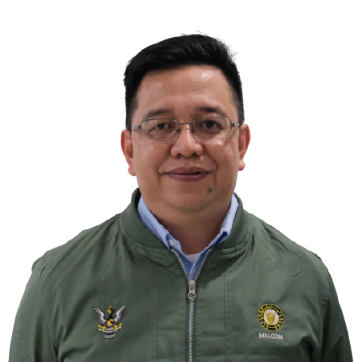
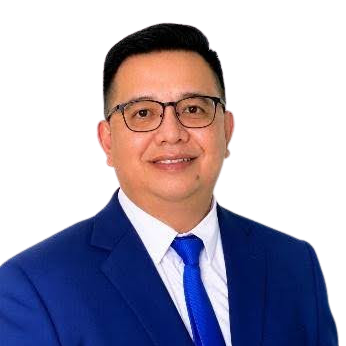
updated

diff --git a/resources/views/index.blade.php b/resources/views/index.blade.php
@@ -183,14 +183,14 @@
         <tr><td>8:40 AM – 9:00 AM</td><td><strong>Paper 1:</strong> Pengalaman dan Cabaran Pengurusan Kebakaran Hutan Paya Gambut di Selangor<ul><li>Azhar Ahmad et al., Jabatan Perhutanan Semenanjung Malaysia</li></ul></td></tr>
         <tr><td>9:00 AM – 9:20 AM</td><td><strong>Paper 2:</strong> Estimating Aboveground Forest Carbon Density through LiDAR and Geospatial Remote Sensing in Sarawak<ul><li>Dr Malcom anak Demies, Forest Department Sarawak</li></ul></td></tr>
         <tr><td>9:20 AM – 9:40 AM</td><td><strong>Paper 3:</strong> Ecological Dynamics of Tropical Highland Peat Ecosystems<ul><li>Zainuddin Jamaluddin et al., Jabatan Perhutanan Semenanjung Malaysia</li></ul></td></tr>
-        <tr><td>9:40 AM – 10:00 AM</td><td><strong>Paper 4:</strong> Nature, Climate, and Economy: Sabah's Pathway Through Nature-Based Solutions<ul><li>Rosilia Anthony et al., Sabah Forestry Department</li></ul></td></tr>
+        <tr><td>9:40 AM – 10:00 AM</td><td><strong>Paper 4:</strong> Nature, Climate, and Economy: Sabah's Pathway Through Nature-Based Solutions<ul><li>Rosila Anthony et al., Sabah Forestry Department</li></ul></td></tr>
         <tr><td>10:00 AM – 10:10 AM</td><td>Question and Answer Session</td></tr>
         <tr><td>10:10 AM – 10:30 AM</td><td>Refreshments</td></tr>
         <tr><td colspan="2"><strong>Subtheme 3: Partnership and Collaboration</strong></td></tr>
         <tr><td>10:30 AM – 10:40 AM</td><td>Session Commencement</td></tr>
         <tr><td>10:40 AM – 11:00 AM</td><td><strong>Paper 1:</strong> Sabah Timber Legality Assurance System Plus (TLAS+)<ul><li>Mijol R. M. et al., Sabah Forestry Department</li></ul></td></tr>
         <tr><td>11:00 AM – 11:20 AM</td><td><strong>Paper 2:</strong> Operasi Penguatkuasaan Bersepadu Jabatan Perhutanan Semenanjung Malaysia<ul><li>Gana R. K. et al., Jabatan Perhutanan Semenanjung Malaysia</li></ul></td></tr>
-        <tr><td>11:20 AM – 11:40 AM</td><td><strong>Paper 3:</strong> Digitalizing Conservation Governance: HOBS Cross-Agency Project Management System<ul><li>Habibah binti Salleh, Forest Department Sarawak</li></ul></td></tr>
+        <tr><td>11:20 AM – 11:40 AM</td><td><strong>Paper 3:</strong> Digitalizing Conservation Governance: HOBS Cross-Agency Project Management System<ul><li>Meliza Binti Mohd Rizan, Forest Department Sarawak</li></ul></td></tr>
         <tr><td>11:40 AM – 12:00 PM</td><td><strong>Paper 4</strong><ul><li>Professor Ts. Dr. Faisal Ali bin Anwarali Khan, Unimas</li></ul></td></tr>
         <tr><td>12:00 PM – 12:10 PM</td><td>Question and Answer Session</td></tr>
         <tr><td>12:10 PM – 1:30 PM</td><td>Lunch</td></tr>
@@ -289,8 +289,8 @@
         <span>Paper Presenter · Forest Department Sarawak</span>
       </div>
 
-      <div class="speaker-card" onclick="showSpeakerModal('Indra P. H. Sunjoto','Paper Presenter','Sabah Forestry Department','https://ui-avatars.com/api/?name=Indra+Sunjoto&background=4a7c59&color=fff&size=150')">
-        <img src="https://ui-avatars.com/api/?name=Indra+Sunjoto&background=4a7c59&color=fff&size=150" alt="Indra P. H. Sunjoto" />
+      <div class="speaker-card" onclick="showSpeakerModal('Indra P. H. Sunjoto','Paper Presenter','Sabah Forestry Department','{{ asset('images/talker/INDRA PH SUNJOTO.png') }}')">
+        <img src="{{ asset('images/talker/INDRA PH SUNJOTO.png') }}" alt="Indra P. H. Sunjoto" />
         <strong>Indra P. H. Sunjoto</strong>
         <span>Paper Presenter · Sabah Forestry Department</span>
       </div>
@@ -325,14 +325,14 @@
         <span>Paper Presenter · Jabatan Perhutanan Semenanjung Malaysia</span>
       </div>
 
-      <div class="speaker-card" onclick="showSpeakerModal('Rosilia Anthony','Paper Presenter','Sabah Forestry Department','https://ui-avatars.com/api/?name=Rosilia+Anthony&background=2e7d32&color=fff&size=150')">
-        <img src="https://ui-avatars.com/api/?name=Rosilia+Anthony&background=2e7d32&color=fff&size=150" alt="Rosilia Anthony" />
-        <strong>Rosilia Anthony</strong>
+      <div class="speaker-card" onclick="showSpeakerModal('Rosila Anthony','Paper Presenter','Sabah Forestry Department','{{ asset('images/talker/ROSILA ANTHONY.png') }}')">
+        <img src="{{ asset('images/talker/ROSILA ANTHONY.png') }}" alt="Rosila Anthony" />
+        <strong>Rosila Anthony</strong>
         <span>Paper Presenter · Sabah Forestry Department</span>
       </div>
 
-      <div class="speaker-card" onclick="showSpeakerModal('Mijol R. M.','Paper Presenter','Sabah Forestry Department','https://ui-avatars.com/api/?name=Mijol+RM&background=1a5c2e&color=fff&size=150')">
-        <img src="https://ui-avatars.com/api/?name=Mijol+RM&background=1a5c2e&color=fff&size=150" alt="Mijol R. M." />
+      <div class="speaker-card" onclick="showSpeakerModal('Mijol R. M.','Paper Presenter','Sabah Forestry Department','{{ asset('images/talker/MIJOL RM.png') }}')">
+        <img src="{{ asset('images/talker/MIJOL RM.png') }}" alt="Mijol R. M." />
         <strong>Mijol R. M.</strong>
         <span>Paper Presenter · Sabah Forestry Department</span>
       </div>
@@ -343,14 +343,14 @@
         <span>Paper Presenter · Jabatan Perhutanan Semenanjung Malaysia</span>
       </div>
 
-      <div class="speaker-card" onclick="showSpeakerModal('Meliza Binti Mohd Rizan','Paper Presenter','Forest Department Sarawak','https://ui-avatars.com/api/?name=Meliza+Rizan&background=2e7d32&color=fff&size=150')">
-        <img src="https://ui-avatars.com/api/?name=Meliza+Rizan&background=2e7d32&color=fff&size=150" alt="Meliza Binti Mohd Rizan" />
+      <div class="speaker-card" onclick="showSpeakerModal('Meliza Binti Mohd Rizan','Paper Presenter','Forest Department Sarawak','{{ asset('images/talker/MELIZA.png') }}')">
+        <img src="{{ asset('images/talker/MELIZA.png') }}" alt="Meliza Binti Mohd Rizan" />
         <strong>Meliza Binti Mohd Rizan</strong>
         <span>Paper Presenter · Forest Department Sarawak</span>
       </div>
 
-      <div class="speaker-card" onclick="showSpeakerModal('Prof. Ts. Dr. Faisal Ali bin Anwarali Khan','Paper Presenter','Unimas','https://ui-avatars.com/api/?name=Faisal+Khan&background=2e7d32&color=fff&size=150')">
-        <img src="https://ui-avatars.com/api/?name=Faisal+Khan&background=2e7d32&color=fff&size=150" alt="Prof. Ts. Dr. Faisal Ali bin Anwarali Khan" />
+      <div class="speaker-card" onclick="showSpeakerModal('Prof. Ts. Dr. Faisal Ali bin Anwarali Khan','Paper Presenter','Unimas','{{ asset('images/talker/FAISAL ALI.jpg') }}')">
+        <img src="{{ asset('images/talker/FAISAL ALI.jpg') }}" alt="Prof. Ts. Dr. Faisal Ali bin Anwarali Khan" />
         <strong>Prof. Ts. Dr. Faisal Ali bin Anwarali Khan</strong>
         <span>Paper Presenter · Unimas</span>
       </div>
@@ -361,14 +361,14 @@
         <span>Paper Presenter · Jabatan Perhutanan Semenanjung Malaysia</span>
       </div>
 
-      <div class="speaker-card" onclick="showSpeakerModal('Reuben Nilus','Paper Presenter','Sabah Forestry Department','https://ui-avatars.com/api/?name=Reuben+Nilus&background=4a7c59&color=fff&size=150')">
-        <img src="https://ui-avatars.com/api/?name=Reuben+Nilus&background=4a7c59&color=fff&size=150" alt="Reuben Nilus" />
+      <div class="speaker-card" onclick="showSpeakerModal('Reuben Nilus','Paper Presenter','Sabah Forestry Department','{{ asset('images/talker/REUBEN NILUS.png') }}')">
+        <img src="{{ asset('images/talker/REUBEN NILUS.png') }}" alt="Reuben Nilus" />
         <strong>Reuben Nilus</strong>
         <span>Paper Presenter · Sabah Forestry Department</span>
       </div>
 
-      <div class="speaker-card" onclick="showSpeakerModal('Bibian Anak Micheal Diway','Paper Presenter','Forest Department Sarawak','{{ asset('images/talker/BIBIAN MICHAEL DIWAY.JPG-no-bg.png') }}')">
-        <img src="{{ asset('images/talker/BIBIAN MICHAEL DIWAY.JPG-no-bg.png') }}" alt="Bibian Anak Micheal Diway" />
+      <div class="speaker-card" onclick="showSpeakerModal('Bibian Anak Micheal Diway','Paper Presenter','Forest Department Sarawak','{{ asset('images/talker/BIBIAN MICHAEL DIWAY.png') }}')">
+        <img src="{{ asset('images/talker/BIBIAN MICHAEL DIWAY.png') }}" alt="Bibian Anak Micheal Diway" />
         <strong>Bibian Anak Micheal Diway</strong>
         <span>Paper Presenter · Forest Department Sarawak</span>
       </div>
@@ -385,20 +385,20 @@
         <span>Paper Presenter · Jabatan Perhutanan Semenanjung Malaysia</span>
       </div>
 
-      <div class="speaker-card" onclick="showSpeakerModal('Heidi Henry William','Paper Presenter','Sabah Forestry Department','https://ui-avatars.com/api/?name=Heidi+William&background=2d5a3d&color=fff&size=150')">
-        <img src="https://ui-avatars.com/api/?name=Heidi+William&background=2d5a3d&color=fff&size=150" alt="Heidi Henry William" />
+      <div class="speaker-card" onclick="showSpeakerModal('Heidi Henry William','Paper Presenter','Sabah Forestry Department','{{ asset('images/talker/HEIDI HENRY.png') }}')">
+        <img src="{{ asset('images/talker/HEIDI HENRY.png') }}" alt="Heidi Henry William" />
         <strong>Heidi Henry William</strong>
         <span>Paper Presenter · Sabah Forestry Department</span>
       </div>
 
-      <div class="speaker-card" onclick="showSpeakerModal('Roger Tami','Paper Presenter','Samling Reforestation (Bintulu) Sdn. Bhd.','https://ui-avatars.com/api/?name=Roger+Tami&background=2e7d32&color=fff&size=150')">
-        <img src="https://ui-avatars.com/api/?name=Roger+Tami&background=2e7d32&color=fff&size=150" alt="Roger Tami" />
+      <div class="speaker-card" onclick="showSpeakerModal('Roger Tami','Paper Presenter','Samling Reforestation (Bintulu) Sdn. Bhd.','{{ asset('images/talker/ROGER TAMI.png') }}')">
+        <img src="{{ asset('images/talker/ROGER TAMI.png') }}" alt="Roger Tami" />
         <strong>Roger Tami</strong>
         <span>Paper Presenter · Samling Reforestation (Bintulu) Sdn. Bhd.</span>
       </div>
 
-      <div class="speaker-card" onclick="showSpeakerModal('E. B. Johnlee','Paper Presenter','Sabah Forestry Department','https://ui-avatars.com/api/?name=EB+Johnlee&background=4a7c59&color=fff&size=150')">
-        <img src="https://ui-avatars.com/api/?name=EB+Johnlee&background=4a7c59&color=fff&size=150" alt="E. B. Johnlee" />
+      <div class="speaker-card" onclick="showSpeakerModal('E. B. Johnlee','Paper Presenter','Sabah Forestry Department','{{ asset('images/talker/EB JOHNLEE.png') }}')">
+        <img src="{{ asset('images/talker/EB JOHNLEE.png') }}" alt="E. B. Johnlee" />
         <strong>E. B. Johnlee</strong>
         <span>Paper Presenter · Sabah Forestry Department</span>
       </div>

diff --git a/resources/views/event-register.blade.php b/resources/views/event-register.blade.php
@@ -15,11 +15,13 @@
     <!-- Nav -->
     <nav>
         <a href="/">
-            <img src="{{ asset('images/logo.png') }}" alt="Logo" onerror="this.style.display='none'" />
+        <img src="{{ asset('images/logo.png') }}" alt="Logo" onerror="this.style.display='none'" />
+        <img src="{{ asset('images/logo_mfc.jpeg') }}" alt="Logo" onerror="this.style.display='none'" />
         </a>
-        <a href="/">Home</a>
+
         <a href="/#agenda">Agenda</a>
         <a href="/#speakers">Speakers</a>
+        <a href="/#slides">Slides</a>
         <a href="/#footer">Contacts</a>
     </nav>
 
@@ -38,9 +40,7 @@
                 </ul>
             </div>
         @endif
-        <div class="back-btn">
-            <a href="/">← Back</a>
-        </div>
+
         <form method="POST" action="/event-register" class="register-form">
             @csrf
 
@@ -104,37 +104,10 @@
             </button>
 
         </form>
+        <div style="text-align:center; margin-top:20px;">
+            <a href="/" class="register_btn">Back to Home</a>
+        </div>
     </section>
 
-<footer id="footer">
-    <div class="footer-container">
-        <div class="footer-section">
-            <h2 class="footer-title">Contact Us</h2>
-            <p class="footer-subtitle">Do you need help?</p>
-            <div class="footer-contacts">
-                <a href="tel:+60123456789" class="footer-contact-item">
-                    <span class="contact-role">Transportation</span>
-                    <span class="contact-name">Encik Ali</span>
-                    <span class="contact-number">012-3456789</span>
-                </a>
-                <a href="tel:+60123456789" class="footer-contact-item">
-                    <span class="contact-role">Accommodation</span>
-                    <span class="contact-name">Encik Abu</span>
-                    <span class="contact-number">012-3456789</span>
-                </a>
-                <a href="tel:+60123456789" class="footer-contact-item">
-                    <span class="contact-role">Registration</span>
-                    <span class="contact-name">Encik Azam</span>
-                    <span class="contact-number">012-3456789</span>
-                </a>
-            </div>
-        </div>
-    </div>
-    <div class="footer-bottom">
-        <a href="/admin" style="color:inherit; text-decoration:none;">
-            <p>Copyright &copy; 2026 Forest Department Sarawak</p>
-        </a>
-    </div>
-</footer>
 </body>
 </html>

diff --git a/resources/views/poster.blade.php b/resources/views/poster.blade.php
@@ -49,10 +49,10 @@
       <img src="{{ asset('images/logo_mfc.jpeg') }}" alt="Logo" onerror="this.style.display='none'" />
     </a>
 
-    <a href="#agenda">Agenda</a>
-    <a href="#speakers">Speakers</a>
-    <a href="#slides">Slides</a>
-    <a href="#footer">Contacts</a>
+    <a href="/#agenda">Agenda</a>
+    <a href="/#speakers">Speakers</a>
+    <a href="/#slides">Slides</a>
+    <a href="/#footer">Contacts</a>
   </nav>
 
   <section id="events">

diff --git a/config/conference.php b/config/conference.php
@@ -22,13 +22,13 @@ return [
             ['time_start' => '08:40', 'time_end' => '09:00', 'activity' => 'Paper 1: Pengalaman dan Cabaran Pengurusan Kebakaran Hutan Paya Gambut di Selangor', 'speaker' => 'Azhar Ahmad et al., Jabatan Perhutanan Semenanjung Malaysia'],
             ['time_start' => '09:00', 'time_end' => '09:20', 'activity' => 'Paper 2: Estimating Aboveground Forest Carbon Density through LiDAR and Geospatial Remote Sensing in Sarawak', 'speaker' => 'Dr Malcom anak Demies, Forest Department Sarawak'],
             ['time_start' => '09:20', 'time_end' => '09:40', 'activity' => 'Paper 3: Ecological Dynamics of Tropical Highland Peat Ecosystems', 'speaker' => 'Zainuddin Jamaluddin et al., Jabatan Perhutanan Semenanjung Malaysia'],
-            ['time_start' => '09:40', 'time_end' => '10:00', 'activity' => 'Paper 4: Nature, Climate, and Economy: Sabah\'s Pathway Through Nature-Based Solutions', 'speaker' => 'Rosilia Anthony et al., Sabah Forestry Department'],
+            ['time_start' => '09:40', 'time_end' => '10:00', 'activity' => 'Paper 4: Nature, Climate, and Economy: Sabah\'s Pathway Through Nature-Based Solutions', 'speaker' => 'Rosila Anthony et al., Sabah Forestry Department'],
             ['time_start' => '10:00', 'time_end' => '10:10', 'activity' => 'Question and Answer Session'],
             ['time_start' => '10:10', 'time_end' => '10:30', 'activity' => 'Refreshments'],
             ['time_start' => '10:30', 'time_end' => '10:40', 'activity' => 'Subtheme 3: Partnership and Collaboration — Session Commencement'],
             ['time_start' => '10:40', 'time_end' => '11:00', 'activity' => 'Paper 1: Sabah Timber Legality Assurance System Plus (TLAS+)', 'speaker' => 'Mijol R. M. et al., Sabah Forestry Department'],
             ['time_start' => '11:00', 'time_end' => '11:20', 'activity' => 'Paper 2: Operasi Penguatkuasaan Bersepadu Jabatan Perhutanan Semenanjung Malaysia', 'speaker' => 'Gana R. K. et al., Jabatan Perhutanan Semenanjung Malaysia'],
-            ['time_start' => '11:20', 'time_end' => '11:40', 'activity' => 'Paper 3: Digitalizing Conservation Governance: HOBS Cross-Agency Project Management System', 'speaker' => 'Habibah binti Salleh, Forest Department Sarawak'],
+            ['time_start' => '11:20', 'time_end' => '11:40', 'activity' => 'Paper 3: Digitalizing Conservation Governance: HOBS Cross-Agency Project Management System', 'speaker' => 'Meliza Binti Mohd Rizan, Forest Department Sarawak'],
             ['time_start' => '11:40', 'time_end' => '12:00', 'activity' => 'Paper 4', 'speaker' => 'Professor Ts. Dr. Faisal Ali bin Anwarali Khan, Unimas'],
             ['time_start' => '12:00', 'time_end' => '12:10', 'activity' => 'Question and Answer Session'],
             ['time_start' => '12:10', 'time_end' => '13:30', 'activity' => 'Lunch'],